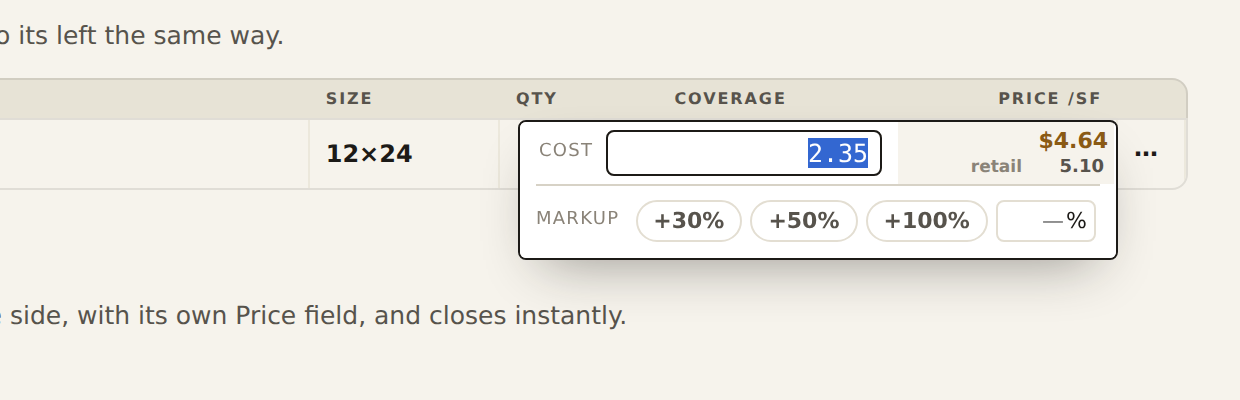
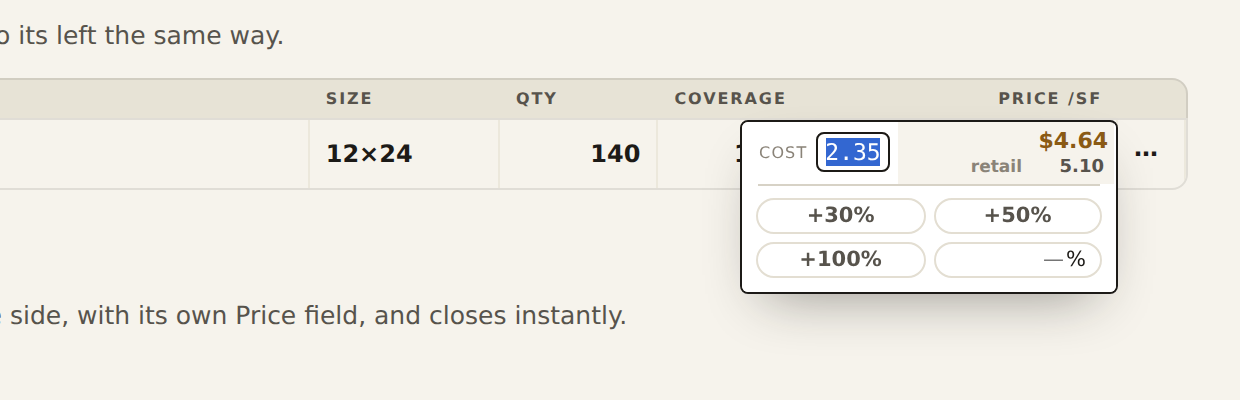
Mockup: price popup A2 slimmed — small cost field, 2×2 markup chips
Owner 2026-09-24: the 300px box was far too wide. The box is now the
price cell plus a 78px cost lead (~188px, 37% narrower), with the markup
chips smaller and stacked two by two.

Claude-Session: https://claude.ai/code/session_012wB1jCrZi6e8EHeR8FaCfL

Changed region(s): [[0.3984, 0.3, 0.9194, 0.78], [0.429, 0.51, 0.4903, 0.57]]

diff --git a/.scratch/mockups/price-pop-grow-2026-09-24.html b/.scratch/mockups/price-pop-grow-2026-09-24.html
@@ -45,6 +45,11 @@ h1{font-size:20px;margin:0 0 4px}h2{font-size:14px;margin:34px 0 4px}p.d{font-si
 .chips .pct input{width:34px;border:0;outline:0;text-align:right;font:inherit;padding:3px 1px;background:transparent}
 .foot{display:flex;justify-content:space-between;border-top:1px solid #eee9de;padding-top:5px;font-size:10.5px;color:var(--muted)}
 .note{font-size:11px;color:var(--faint);margin-top:8px}
+.mk2{display:grid;grid-template-columns:1fr 1fr;gap:4px}
+.mk2 button{font:inherit;font-size:10.5px;font-weight:700;padding:2px 0;border-radius:99px;border:1px solid #e3ded2;background:#fff;color:var(--muted);cursor:pointer}
+.mk2 button.on{background:var(--brand);color:#fff;border-color:transparent}
+.mk2 .pct{display:flex;align-items:center;justify-content:flex-end;border:1px solid #e3ded2;border-radius:99px;font-size:10.5px;padding-right:7px}
+.mk2 .pct input{width:100%;min-width:0;border:0;outline:0;text-align:right;font:inherit;padding:2px 1px;background:transparent}
 .cmp{display:grid;grid-template-columns:1fr 1fr;gap:18px;max-width:900px}
 .cmp img{width:100%}
 .today{display:inline-block;margin-top:6px;border:1.5px solid var(--ink);border-radius:8px;background:#fff;box-shadow:0 12px 28px -12px rgba(28,26,23,.45);padding:8px 10px;width:268px;font-size:11px}
@@ -79,7 +84,7 @@ h1{font-size:20px;margin:0 0 4px}h2{font-size:14px;margin:34px 0 4px}p.d{font-si
 </div>
 
 <script>
-const W = 300, root = document.documentElement;
+const LEAD = 78, root = document.documentElement;
 document.querySelectorAll(".speed button").forEach((b) => b.onclick = () => {
   const [i, o] = b.dataset.s.split(",");
   root.style.setProperty("--in", i + "ms"); root.style.setProperty("--out", o + "ms");
@@ -95,13 +100,13 @@ function open(cell) {
   const st = { cost: 2.35 };
   const box = document.createElement("div");
   box.className = "box";
-  const left = Math.max(8, r.right - W), lead = r.left - left;
+  const W = r.width + LEAD, left = Math.max(8, r.right - W), lead = r.left - left;
   Object.assign(box.style, { left: r.left + "px", top: r.top + "px", width: r.width + "px" });
   box.innerHTML = `<div class="head" style="height:${r.height - 3}px">
       <div class="fill" data-fill style="flex:none;width:0;justify-content:flex-end;padding:0;transition:width var(--in) var(--ease)">
-        <label style="flex:none;width:${lead - 1.5}px;display:flex;align-items:center;gap:6px;padding:0 8px;pointer-events:auto"><span class="lbl">Cost</span><input class="f" data-cost value="2.35" style="flex:1;min-width:0;padding:3px 6px;font-size:12.5px"></label>
+        <label style="flex:none;width:${lead - 1.5}px;display:flex;align-items:center;gap:4px;padding:0 4px 0 7px;pointer-events:auto"><span class="lbl" style="font-size:8px">Cost</span><input class="f" data-cost value="2.35" style="flex:1;min-width:0;padding:2px 4px;font-size:11.5px"></label>
       </div><div style="width:${r.width - 3}px;flex:none"></div><div style="flex:1;background:var(--card)"></div></div>
-    <div class="grow"><div><div class="rule"></div><div class="body" style="padding:7px 8px 8px"><div class="chips"><span class="lbl" style="margin-right:4px">Markup</span>${MK.map((p) => `<button data-mk="${p}">+${p}%</button>`).join("")}<span class="pct"><input data-pct placeholder="—">%&nbsp;</span></div></div></div></div>`;
+    <div class="grow"><div><div class="rule"></div><div class="body" style="padding:6px 7px 7px"><div class="mk2">${MK.map((p) => `<button data-mk="${p}">+${p}%</button>`).join("")}<span class="pct"><input data-pct placeholder="—">%</span></div></div></div></div>`;
   document.body.appendChild(box);
   box.getBoundingClientRect();
   input.classList.add("hidden-ring");
